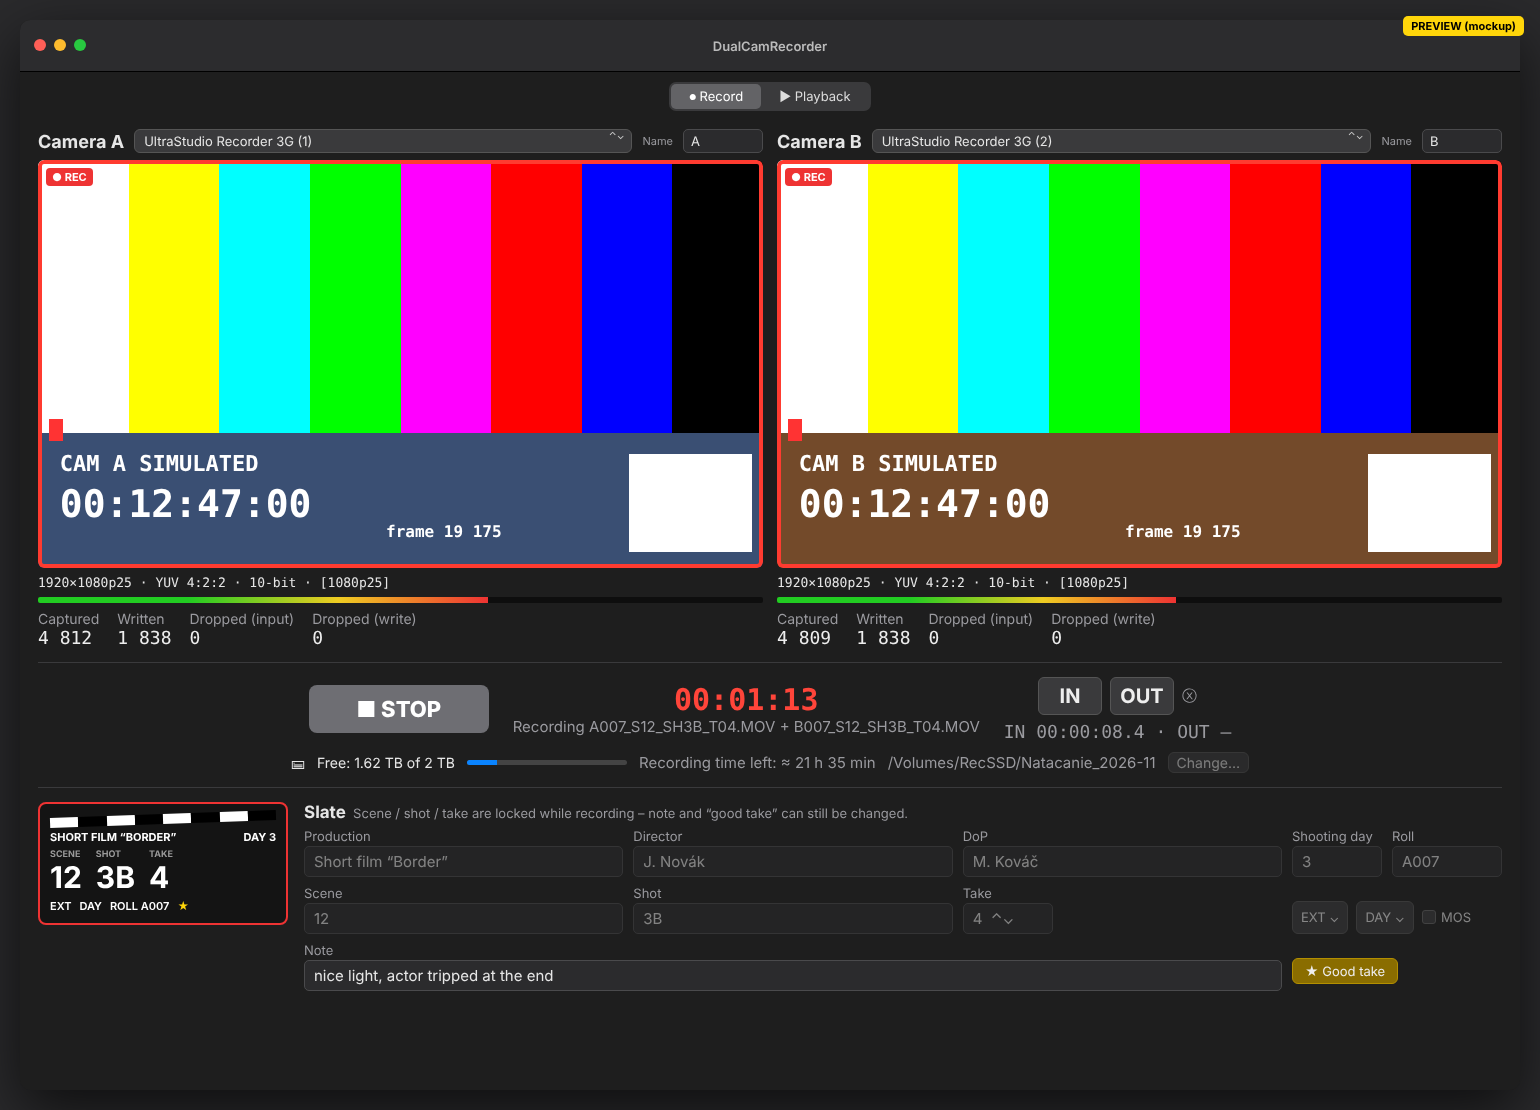
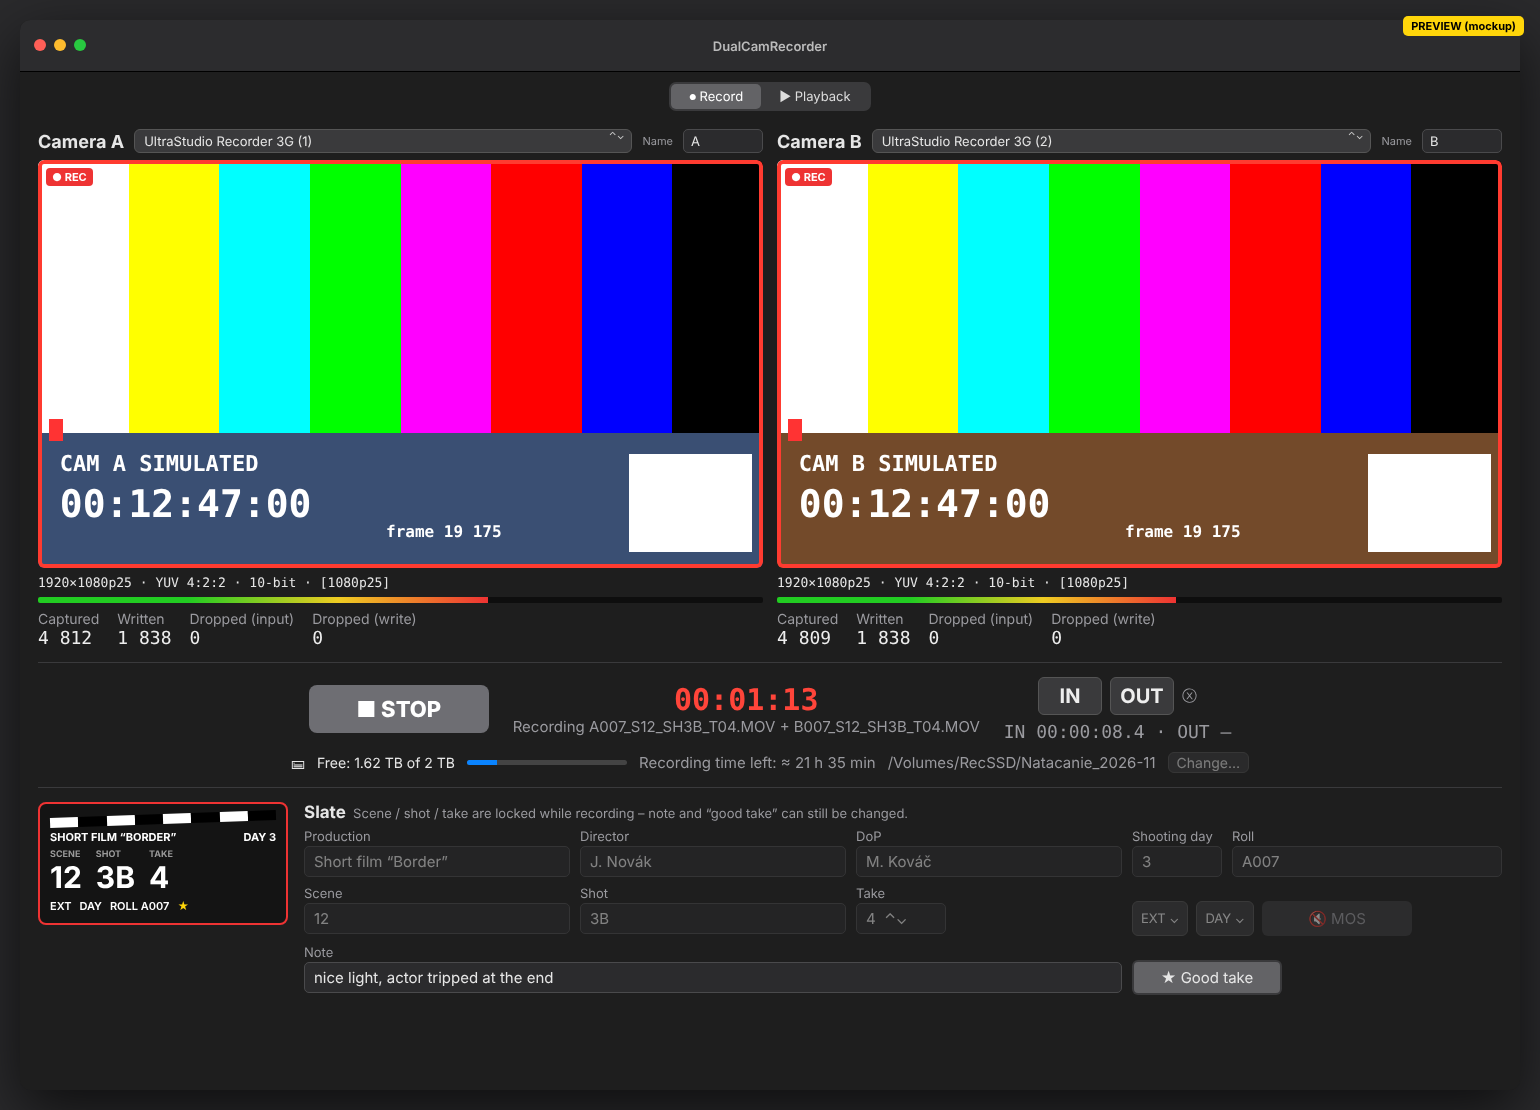
Make MOS and Good take same-size segment buttons in the slate
Claude-Session: https://claude.ai/code/session_01SjxyfTkJQH7RKsrkA8EJQA

diff --git a/DualCamRecorder/Views/SlateView.swift b/DualCamRecorder/Views/SlateView.swift
@@ -105,7 +105,13 @@ struct SlateFields: View {
                         ForEach(SlateInfo.TimeOfDay.allCases) { Text($0.title).tag($0) }
                     }
                     .labelsHidden().frame(width: 80)
-                    Toggle("MOS", isOn: $slate.mos).help("Without sound")
+                    SegmentGroup {
+                        Toggle(isOn: $slate.mos) {
+                            Label("MOS", systemImage: "speaker.slash")
+                        }
+                        .help("Without sound")
+                    }
+                    .toggleStyle(SegmentToggleStyle(width: 150))
                 }
                 .padding(.top, 14)
             }
@@ -113,11 +119,13 @@ struct SlateFields: View {
             GridRow {
                 field("Note", text: $slate.note)
                     .gridCellColumns(3)
-                Toggle(isOn: $slate.good) {
-                    Label("Good take", systemImage: slate.good ? "star.fill" : "star")
+                SegmentGroup {
+                    Toggle(isOn: $slate.good) {
+                        Label("Good take", systemImage: slate.good ? "star.fill" : "star")
+                    }
+                    .help("Good (circled) take")
                 }
-                .toggleStyle(.button)
-                .tint(.yellow)
+                .toggleStyle(SegmentToggleStyle(width: 150))
                 .padding(.top, 14)
             }
         }

diff --git a/DualCamRecorder/Views/Components.swift b/DualCamRecorder/Views/Components.swift
@@ -83,11 +83,15 @@ struct ShortcutButton: View {
 
 /// Toggle drawn like a segment of a segmented control: light gray when on, dark when off.
 struct SegmentToggleStyle: ToggleStyle {
+    /// Fixed width so several toggles can share the same size (nil = fit the label).
+    var width: CGFloat? = nil
+
     func makeBody(configuration: Configuration) -> some View {
         Button {
             configuration.isOn.toggle()
         } label: {
             configuration.label
+                .frame(width: width.map { $0 - 32 })
                 .padding(.horizontal, 16)
                 .padding(.vertical, 5)
                 .frame(minHeight: 30)
